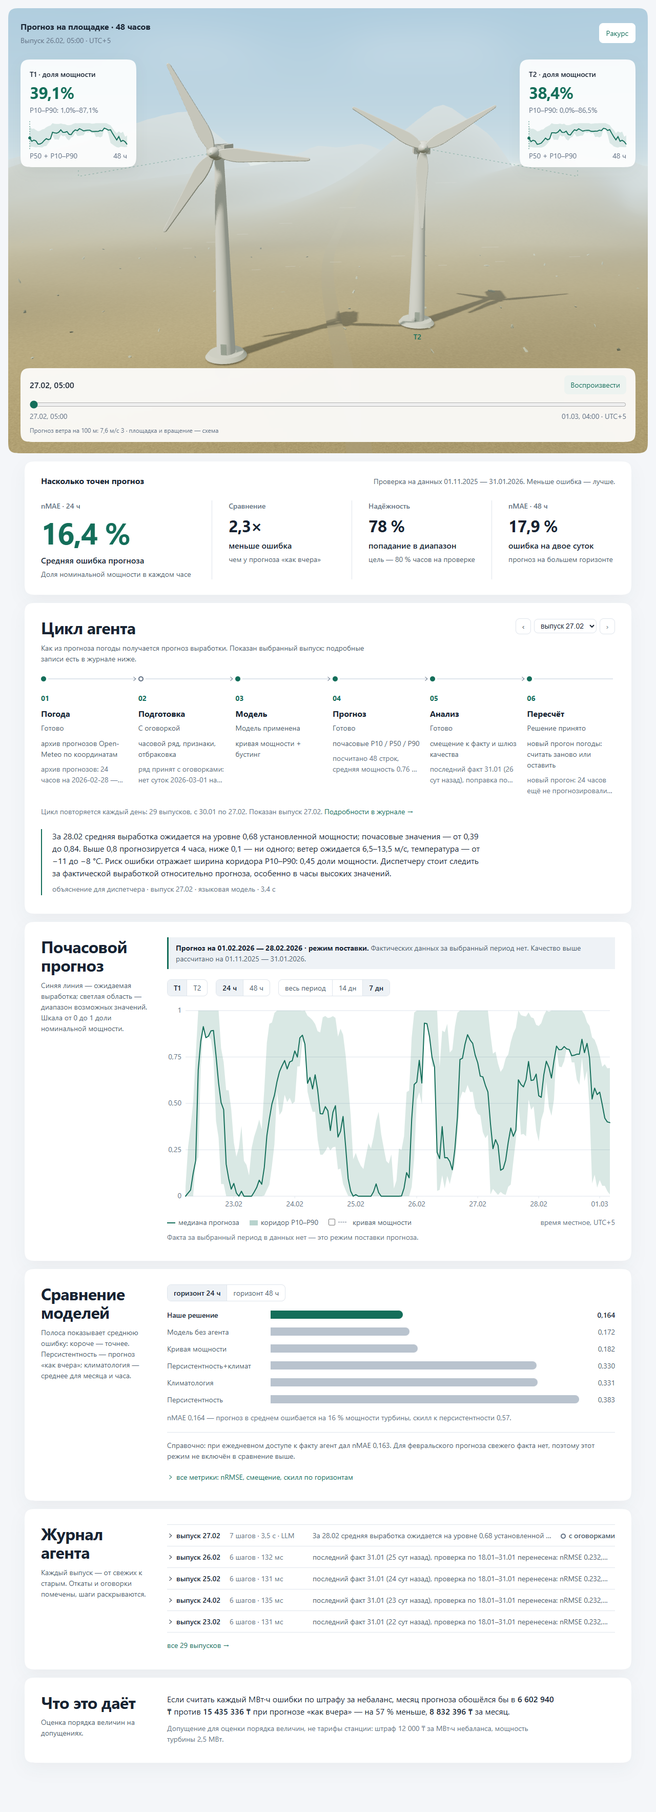
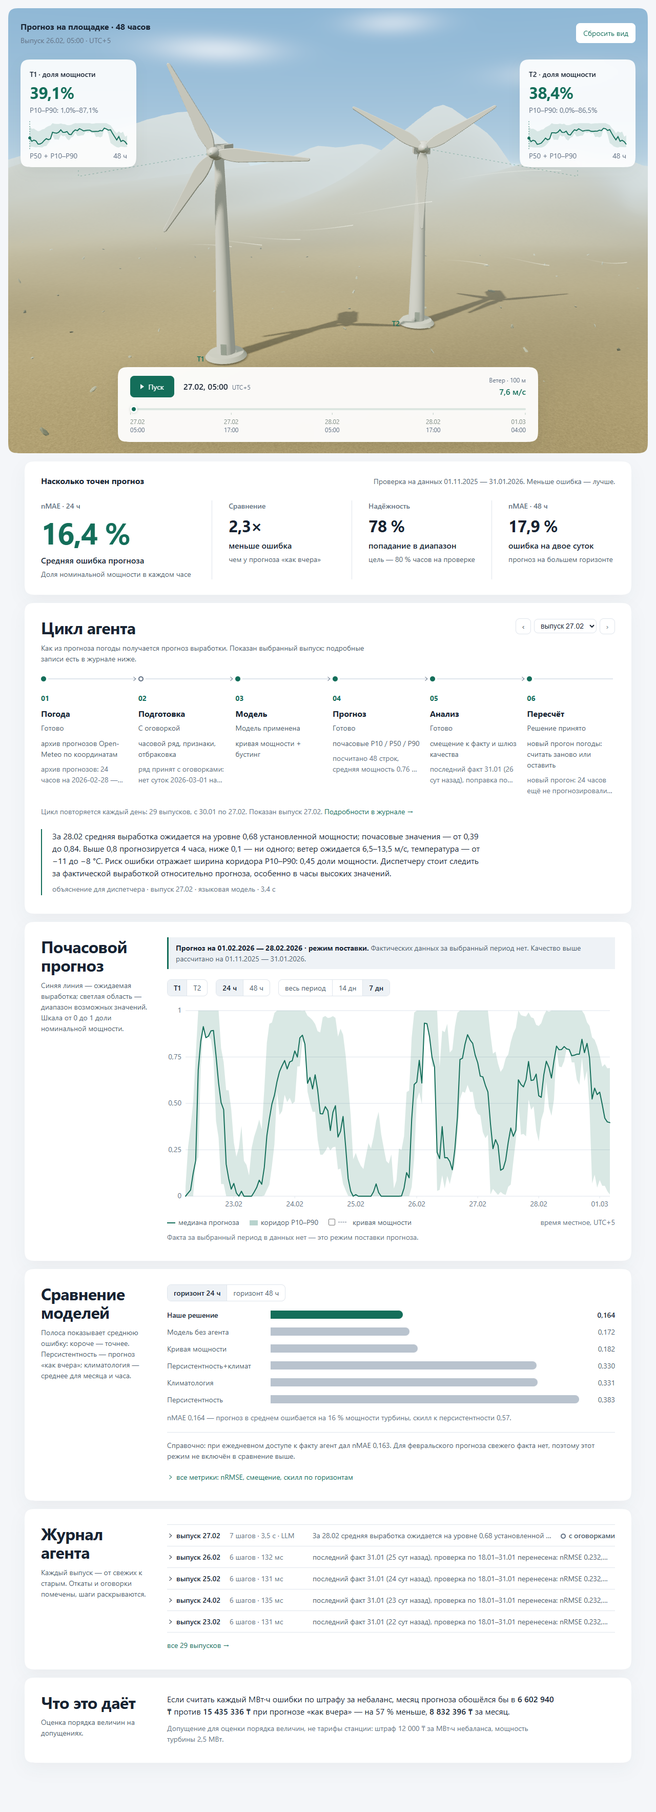
Упростить управление сценой и сделать потоки ветра заметнее

diff --git a/web/forecast3d.js b/web/forecast3d.js
@@ -29,7 +29,7 @@
     const head=el('div','forecast3d-head',undefined,stage),heading=el('div','',undefined,head);
     el('h3','','Прогноз на площадке · '+times.length+' часов',heading);
     el('p','forecast3d-meta','Выпуск '+local(utc(selected[0]))+' · UTC+5',heading);
-    const reset=el('button','','Ракурс',head);reset.type='button';reset.setAttribute('aria-label','Вернуть исходный ракурс');
+    const reset=el('button','','Сбросить вид',head);reset.type='button';reset.title='Перетаскивайте сцену, чтобы повернуть камеру. Эта кнопка возвращает исходный вид.';
     canvas.setAttribute('role','img');canvas.setAttribute('aria-label','Условная сцена Шелекского коридора: две ветротурбины. Прогноз мощности, диапазон P10–P90 и график каждой турбины показаны на панелях.');
     const svgEl=(tag,attrs,parent)=>{const node=document.createElementNS('http://www.w3.org/2000/svg',tag);for(const [key,value] of Object.entries(attrs))node.setAttribute(key,value);parent.append(node);return node;};
     const panels=series.map(({turbine,rows})=>{
@@ -48,43 +48,47 @@
       const caption=el('div','forecast3d-spark-caption',undefined,panel);el('span','','P50 + P10–P90',caption);el('span','',times.length+' ч',caption);
       return {panel,median,band,marker,dot};
     });
-    const timeline=el('div','forecast3d-timeline',undefined,stage),timeHead=el('div','forecast3d-time-head',undefined,timeline),hour=el('span','forecast3d-time','',timeHead);
-    const play=el('button','','Воспроизвести',timeHead);play.type='button';play.setAttribute('aria-pressed','false');
+    const timeline=el('div','forecast3d-timeline',undefined,stage),timeHead=el('div','forecast3d-time-head',undefined,timeline);
+    const play=el('button','forecast3d-play','Пуск',timeHead);play.type='button';play.setAttribute('aria-pressed','false');play.setAttribute('aria-label','Воспроизвести прогноз по часам');
+    const current=el('div','forecast3d-current',undefined,timeHead),hour=el('span','forecast3d-time','',current);el('span','forecast3d-time-zone','UTC+5',current);
+    const windReadout=el('div','forecast3d-wind',undefined,timeHead);el('span','forecast3d-wind-label','Ветер · 100 м',windReadout);const windValue=el('strong','forecast3d-wind-value','—',windReadout);
     const slider=el('input','forecast3d-range',undefined,timeline);slider.type='range';slider.min=0;slider.max=times.length-1;slider.value=0;slider.setAttribute('aria-label','Час прогноза');
-    const limits=el('div','forecast3d-limits',undefined,timeline);el('span','',local(utc(times[0])),limits);el('span','',local(utc(times.at(-1)))+' · UTC+5',limits);
-    const note=el('p','forecast3d-note','Условная сцена · поток и вращение — схема',timeline);
+    const limits=el('div','forecast3d-limits',undefined,timeline);
+    for(const index of [...new Set([0,12,24,36,times.length-1].filter(index=>index<times.length))]){const tick=el('span','forecast3d-tick','',limits);tick.style.left=(index/Math.max(1,times.length-1)*100)+'%';el('span','',local(utc(times[index]),false),tick);el('span','',local(utc(times[index])).slice(-5),tick);}
+    timeline.title='Условная площадка. Вращение лопастей иллюстрирует прогноз ветра, а не реальные обороты турбин. Направление ветра указано по правилу «откуда дует».';
     const ctx=canvas.getContext('2d');
-    let width=0,height=0,active=0,yaw=0,elevation=0,drag=null,frame=0,playing=false,lastStep=0,visible=true,destroyed=false,scene3d=null,rotorPhase=0,lastRender=0;
+    let width=0,height=0,active=0,yaw=0,elevation=0,drag=null,frame=0,playing=false,lastStep=0,visible=true,destroyed=false,scene3d=null,rotorPhase=0,lastRender=0,rotorSpeed=.4;
     const reduced=window.matchMedia('(prefers-reduced-motion: reduce)');
     const windAt=index=>{const readings=series.map(({rows})=>rows[index]?.wind_speed_100m).filter(value=>Number.isFinite(value)&&value>=0);return readings.length?readings.reduce((sum,value)=>sum+value,0)/readings.length:null;};
     const directionAt=index=>{const bearings=series.map(({rows})=>rows[index]?.wind_direction_100m).filter(Number.isFinite);if(!bearings.length)return null;return Math.atan2(bearings.reduce((sum,angle)=>sum+Math.sin(angle*Math.PI/180),0),bearings.reduce((sum,angle)=>sum+Math.cos(angle*Math.PI/180),0));};
-    function update(){hour.textContent=local(utc(times[active]));slider.value=active;slider.setAttribute('aria-valuetext',hour.textContent);
+    function update(){hour.textContent=local(utc(times[active]));slider.value=active;slider.style.setProperty('--position',(active/Math.max(1,times.length-1)*100)+'%');slider.setAttribute('aria-valuetext',hour.textContent);
       series.forEach(({rows},i)=>{const row=rows[active],panel=panels[i],x=times.length>1?active/(times.length-1)*200:100;
         panel.median.textContent=row?percent(row.p50):'—';panel.band.textContent=row?'P10–P90: '+percent(row.p10)+'–'+percent(row.p90):'Нет прогноза';
         panel.marker.setAttribute('x1',x);panel.marker.setAttribute('x2',x);panel.dot.setAttribute('cx',x);panel.dot.setAttribute('cy',row?54-row.p50*50:54);panel.dot.style.display=row?'':'none';});
       const wind=windAt(active),bearing=directionAt(active),compass=['С','СВ','В','ЮВ','Ю','ЮЗ','З','СЗ'];
       const direction=bearing===null?'':' '+compass[Math.round(((bearing*180/Math.PI+360)%360)/45)%8];
-      note.textContent=(wind===null?'Условная сцена · поток и вращение — схема':'Прогноз ветра на 100 м: '+wind.toFixed(1).replace('.',',')+' м/с'+direction+' · площадка и вращение — схема');}
+      windValue.textContent=wind===null?'Нет данных':wind.toFixed(1).replace('.',',')+' м/с';
+      windReadout.title=wind===null?'Прогноз ветра недоступен. Вращение и потоки условные.':'Прогноз ветра на 100 м: '+wind.toFixed(1).replace('.',',')+' м/с'+direction+'. Вращение и потоки показаны схематично.';
+      windReadout.setAttribute('aria-label',windReadout.title);}
     function render(stamp){frame=0;if(destroyed||!visible)return;
       const wind=windAt(active),elapsed=lastRender?Math.min((stamp-lastRender)/1000,.1):0;lastRender=stamp;
-      if(!reduced.matches)rotorPhase+=elapsed*(wind===null?.4:Math.min(wind*.055,1.4));
+      const targetSpeed=wind===null?.4:Math.min(wind*.055,1.4);rotorSpeed+=(targetSpeed-rotorSpeed)*(1-Math.exp(-elapsed*2.8));
+      if(!reduced.matches)rotorPhase+=elapsed*rotorSpeed;
       if(playing&&stamp-lastStep>800){active=(active+1)%times.length;lastStep=stamp;update();}
       if(scene3d){scene3d.render(stamp,yaw);}
       else if(ctx&&width){
         const mobile=width<600,horizon=height*(mobile?.43:.38),ground=height*(mobile?.77:.79);
-        const sky=ctx.createLinearGradient(0,0,0,height);sky.addColorStop(0,'#afc8d1');sky.addColorStop(.48,'#e8e6d8');sky.addColorStop(1,'#c4b38d');ctx.fillStyle=sky;ctx.fillRect(0,0,width,height);
+        const sky=ctx.createLinearGradient(0,0,0,height);sky.addColorStop(0,'#76aaca');sky.addColorStop(.48,'#dde5df');sky.addColorStop(1,'#c4b38d');ctx.fillStyle=sky;ctx.fillRect(0,0,width,height);
+        for(let cloud=0;cloud<5;cloud++){const x=width*(.12+cloud*.19),y=horizon*(.29+(cloud%2)*.28),radius=width*(.09+(cloud%3)*.025);ctx.save();ctx.translate(x,y);ctx.scale(1,.28);const haze=ctx.createRadialGradient(0,0,0,0,0,radius);haze.addColorStop(0,'rgba(255,255,251,.25)');haze.addColorStop(.5,'rgba(255,255,251,.12)');haze.addColorStop(1,'rgba(255,255,251,0)');ctx.fillStyle=haze;ctx.fillRect(-radius,-radius,radius*2,radius*2);ctx.restore();}
         const mountain=(baseline,amp,fill,phase)=>{const ridges=[];ctx.beginPath();ctx.moveTo(0,baseline);for(let x=0;x<=width+24;x+=24){const n=x/width,peak=Math.sin(n*12+phase)*.32+Math.sin(n*31+phase)*.15+Math.sin(n*5+phase)*.5+Math.sin(n*87+phase)*.07;const y=baseline-amp*(.55+peak);ctx.lineTo(x,y);ridges.push([x,y]);}ctx.lineTo(width,height);ctx.lineTo(0,height);ctx.closePath();ctx.fillStyle=fill;ctx.fill();ridges.forEach(([x,y],i)=>{if(i%3)return;ctx.beginPath();ctx.moveTo(x,y);ctx.lineTo(x+amp*.65,baseline+8);ctx.lineTo(x-amp*.45,baseline+8);ctx.closePath();ctx.fillStyle='rgba(242,245,235,.1)';ctx.fill();});};
         mountain(horizon+26,55,'#c9d4cf',.5+yaw*.3);mountain(horizon+48,34,'#b8c6bb',2+yaw*.2);
         const soil=ctx.createLinearGradient(0,horizon+35,0,height);soil.addColorStop(0,'#cfc4a7');soil.addColorStop(1,'#b5a075');ctx.fillStyle=soil;ctx.beginPath();ctx.moveTo(0,horizon+44);ctx.quadraticCurveTo(width*.5,horizon+24,width,horizon+48);ctx.lineTo(width,height);ctx.lineTo(0,height);ctx.fill();
         const project=([x,y,z])=>{const rx=x*Math.cos(yaw)+z*Math.sin(yaw),rz=-x*Math.sin(yaw)+z*Math.cos(yaw),scale=(mobile?width*.15:Math.min(width*.075,86))/(1+rz*.075);return[width*.5+rx*scale,ground-y*scale-rz*scale*.2,scale];};
         const polygon=(points,fill,stroke)=>{ctx.beginPath();points.forEach((point,i)=>{const p=project(point);if(i)ctx.lineTo(p[0],p[1]);else ctx.moveTo(p[0],p[1]);});ctx.closePath();if(fill){ctx.fillStyle=fill;ctx.fill();}if(stroke){ctx.strokeStyle=stroke;ctx.lineWidth=1;ctx.stroke();}};
-        polygon([[-.9,0,-9],[.1,0,-9],[.65,0,1],[2.4,0,12],[2.15,0,12],[.3,0,1]],'#e4e3d6');
-        polygon([[-.69,0,-9],[-.64,0,-9],[.4,0,1],[2.23,0,12],[2.21,0,12],[.37,0,1]],'rgba(104,109,91,.13)');
-        polygon([[-.12,0,-9],[-.07,0,-9],[.57,0,1],[2.35,0,12],[2.33,0,12],[.54,0,1]],'rgba(104,109,91,.1)');
         // Детерминированная фактура степи не мерцает между кадрами.
         for(let i=0;i<110;i++){const x=((i*73)%997)/997*width,depth=((i*47)%101)/101,y=horizon+52+depth*(height-horizon-52);ctx.strokeStyle=depth>.5?'rgba(91,107,81,.13)':'rgba(91,107,81,.07)';ctx.lineWidth=1;ctx.beginPath();ctx.moveTo(x,y);ctx.lineTo(x+2+depth*8,y-depth*2);ctx.stroke();}
         const bearing=directionAt(active),flowSign=bearing===null?1:-Math.sin(bearing),flowCount=wind===null?12:Math.min(24,Math.round(wind*2));
-        for(let i=0;i<flowCount;i++){const x=((i*79+rotorPhase*34*flowSign+width*100)%width),y=horizon+35+(i*41)%(Math.max(1,ground-horizon-50));ctx.beginPath();ctx.moveTo(x,y);ctx.lineTo(x+12,y-1);ctx.strokeStyle='rgba(255,251,232,.28)';ctx.lineWidth=1;ctx.stroke();}
+        for(let i=0;i<Math.min(flowCount,16);i++){const x=((i*79+rotorPhase*34*flowSign+width*100)%width),y=horizon+35+(i*41)%(Math.max(1,ground-horizon-50));for(let segment=0;segment<16;segment++){const t=segment/16,next=(segment+1)/16;ctx.beginPath();ctx.moveTo(x+t*58,y+Math.sin(t*3+i)*6);ctx.lineTo(x+next*58,y+Math.sin(next*3+i)*6);ctx.strokeStyle='rgba(255,253,239,'+(.5*next*next)+')';ctx.lineWidth=1.35;ctx.stroke();}}
         const turbines=[{x:mobile?-1.75:-2,z:1.6,index:0},{x:mobile?1.8:2,z:3.4,index:1}],hubs=[];
         [...turbines].sort((a,b)=>b.z-a.z).forEach(({x,z,index})=>{
           const tower=mobile?4.05:3.15,radius=mobile?1.21:1.04,base=project([x,0,z]);
@@ -113,7 +117,7 @@
     }
     function schedule(){if(!frame&&!destroyed&&visible)frame=requestAnimationFrame(render);}
     function resize(){const rect=canvas.getBoundingClientRect();width=rect.width;height=rect.height;const ratio=Math.min(window.devicePixelRatio||1,2);canvas.width=Math.round(width*ratio);canvas.height=Math.round(height*ratio);if(ctx)ctx.setTransform(ratio,0,0,ratio,0,0);if(scene3d)scene3d.resize();schedule();}
-    play.addEventListener('click',()=>{playing=!playing;play.textContent=playing?'Пауза':'Воспроизвести';play.setAttribute('aria-pressed',String(playing));lastStep=performance.now();schedule();});
+    play.addEventListener('click',()=>{playing=!playing;play.textContent=playing?'Пауза':'Пуск';play.setAttribute('aria-pressed',String(playing));play.setAttribute('aria-label',playing?'Приостановить прогноз':'Воспроизвести прогноз по часам');lastStep=performance.now();schedule();});
     slider.addEventListener('input',()=>{active=Number(slider.value);lastStep=performance.now();update();schedule();});
     reset.addEventListener('click',()=>{yaw=0;elevation=0;schedule();});
     canvas.addEventListener('pointerdown',event=>{if(event.button!==0)return;drag={x:event.clientX,y:event.clientY,yaw,elevation};canvas.setPointerCapture(event.pointerId);});
@@ -130,8 +134,11 @@
       renderer.shadowMap.enabled=true;renderer.shadowMap.type=THREE.PCFSoftShadowMap;
       renderer.toneMapping=THREE.ACESFilmicToneMapping;renderer.toneMappingExposure=1;
       const scene=new THREE.Scene();scene.background=new THREE.Color('#d8e2e4');scene.fog=new THREE.FogExp2('#d8e2e4',.0125);
-      const skyMaterial=new THREE.ShaderMaterial({side:THREE.BackSide,depthWrite:false,toneMapped:false,precision:'highp',uniforms:{zenith:{value:new THREE.Color('#8bbbd8')},horizon:{value:new THREE.Color('#e4ecea')}},vertexShader:`varying vec3 skyDirection;void main(){skyDirection=position;gl_Position=projectionMatrix*modelViewMatrix*vec4(position,1.0);}`,fragmentShader:`uniform vec3 zenith;uniform vec3 horizon;varying vec3 skyDirection;
-        void main(){vec3 d=normalize(skyDirection);float h=max(d.y,0.0);vec3 color=mix(horizon,zenith,pow(h,.32));float ribbon=exp(-pow((h-.22)*19.,2.));float patches=smoothstep(.18,.88,.5+.28*sin(d.x*13.)+.22*sin(d.z*17.));float cloud=ribbon*patches*.12;color=mix(color,vec3(.95,.97,.98),cloud);float glow=pow(max(dot(d,normalize(vec3(-.5,.7,.4))),0.),32.);color+=vec3(.055,.047,.03)*glow;gl_FragColor=vec4(color,1.);
+      const skyMaterial=new THREE.ShaderMaterial({side:THREE.BackSide,depthWrite:false,toneMapped:false,precision:'highp',uniforms:{zenith:{value:new THREE.Color('#5c9ecb')},horizon:{value:new THREE.Color('#d5e6ec')}},vertexShader:`varying vec3 skyDirection;void main(){skyDirection=position;gl_Position=projectionMatrix*modelViewMatrix*vec4(position,1.0);}`,fragmentShader:`uniform vec3 zenith;uniform vec3 horizon;varying vec3 skyDirection;
+        float cloudPatch(vec2 uv,vec2 center,vec2 stretch){vec2 p=(uv-center)*stretch;return exp(-dot(p,p));}
+        void main(){vec3 d=normalize(skyDirection);float h=max(d.y,0.0);vec3 color=mix(horizon,zenith,pow(h,.28));vec2 uv=vec2(d.x,h);
+          float cloud=.58*cloudPatch(uv,vec2(-.29,.22),vec2(9.,42.))+.44*cloudPatch(uv,vec2(.05,.27),vec2(12.,48.))+.32*cloudPatch(uv,vec2(.35,.17),vec2(10.,45.));
+          cloud*=smoothstep(.1,.8,-d.z);color=mix(color,vec3(.95,.97,.98),min(cloud,.68));float glow=pow(max(dot(d,normalize(vec3(-.5,.7,.4))),0.),32.);color+=vec3(.055,.047,.03)*glow;gl_FragColor=vec4(color,1.);
         #include <colorspace_fragment>
         }`});
       scene.add(new THREE.Mesh(new THREE.SphereGeometry(180,96,64),skyMaterial));
@@ -156,17 +163,17 @@
       for(let i=0;i<vertices.count;i++){const x=vertices.getX(i),z=vertices.getZ(i),patch=(Math.sin(x*.13+Math.sin(z*.21))*Math.cos(z*.095)+1)*.5;tint.copy(dry).lerp(dust,patch*.65);if(z<-25)tint.lerp(rock,Math.min((-z-25)/70,.85));terrainColors.push(tint.r,tint.g,tint.b);}
       ground.setAttribute('color',new THREE.Float32BufferAttribute(terrainColors,3));
       const groundMat=new THREE.MeshStandardMaterial({vertexColors:true,map:terrainTexture,roughness:1,metalness:0});mesh(ground,groundMat).castShadow=false;
-      const roadMat=new THREE.MeshStandardMaterial({color:'#b7a780',map:terrainTexture,roughness:1,transparent:true,opacity:.72,depthWrite:false});
-      const roadVertices=[],roadIndices=[];
-      for(let i=0;i<=100;i++){const z=-65+i*1.2,center=Math.sin(z*.055)*2.6+.8;for(const edge of [-.58,.58]){const x=center+edge;roadVertices.push(x,terrainHeight(x,z)+.18,z);}if(i<100){const a=i*2;roadIndices.push(a,a+2,a+1,a+1,a+2,a+3);}}
-      const roadGeometry=new THREE.BufferGeometry();roadGeometry.setAttribute('position',new THREE.Float32BufferAttribute(roadVertices,3));roadGeometry.setIndex(roadIndices);roadGeometry.computeVertexNormals();mesh(roadGeometry,roadMat).castShadow=false;
       const gravelMat=new THREE.MeshStandardMaterial({color:'#a4a78f',roughness:1});
       const pebbleGeometry=new THREE.IcosahedronGeometry(.12,0);
       const pebbles=new THREE.InstancedMesh(pebbleGeometry,gravelMat,190);
       const transform=new THREE.Object3D();
       for(let i=0;i<190;i++){const x=((i*73)%997)/997*80-40,z=((i*47)%991)/991*80-30;transform.position.set(x,.02,z);transform.rotation.set(i*.7,i*.4,i*.13);transform.scale.set(1+(i%3),.4,1);transform.updateMatrix();pebbles.setMatrixAt(i,transform.matrix);}pebbles.receiveShadow=true;scene.add(pebbles);
-      const windGeometry=new THREE.BufferGeometry(),windPositions=new Float32Array(36*6);windGeometry.setAttribute('position',new THREE.BufferAttribute(windPositions,3));
-      const windMaterial=new THREE.LineBasicMaterial({color:'#f9f6e9',transparent:true,opacity:.24,depthWrite:false});
+      const streamCount=22,streamSegments=18;
+      const windGeometry=new THREE.BufferGeometry(),windPositions=new Float32Array(streamCount*streamSegments*6),windFades=new Float32Array(streamCount*streamSegments*2);
+      windGeometry.setAttribute('position',new THREE.BufferAttribute(windPositions,3));
+      for(let stream=0;stream<streamCount;stream++)for(let segment=0;segment<streamSegments;segment++){const offset=(stream*streamSegments+segment)*2;windFades[offset]=Math.pow(segment/streamSegments,1.6);windFades[offset+1]=Math.pow((segment+1)/streamSegments,1.6);}
+      windGeometry.setAttribute('fade',new THREE.BufferAttribute(windFades,1));
+      const windMaterial=new THREE.ShaderMaterial({transparent:true,depthWrite:false,toneMapped:false,vertexShader:`attribute float fade;varying float trailFade;void main(){trailFade=fade;gl_Position=projectionMatrix*modelViewMatrix*vec4(position,1.0);}`,fragmentShader:`varying float trailFade;void main(){gl_FragColor=vec4(.98,.99,.96,trailFade*.62);}`});
       const windLines=new THREE.LineSegments(windGeometry,windMaterial);windLines.frustumCulled=false;scene.add(windLines);
       const towerMat=new THREE.MeshStandardMaterial({color:'#f0f2e9',roughness:.36,metalness:.17});
       const edgeMat=new THREE.MeshStandardMaterial({color:'#aebbb2',roughness:.55,metalness:.25});
@@ -196,8 +203,10 @@
         // Север сцены — минус Z; метеорологический угол задаёт, откуда дует ветер.
         const dx=bearing===null?1:-Math.sin(bearing),dz=bearing===null?.2:Math.cos(bearing);
         turbines.forEach(({group,rotor},index)=>{group.position.x=(index?1:-1)*(mobile?4:6.2);rotor.rotation.z=rotorPhase+index*.6;});
-        const flow=rotorPhase*8;for(let i=0;i<36;i++){const x=((i*3.713+flow*dx+42000)%42)-21,y=2+((i*1.731)%12),z=((i*5.319+flow*dz+34000)%34)-17,offset=i*6;windPositions[offset]=x;windPositions[offset+1]=y;windPositions[offset+2]=z;windPositions[offset+3]=x+.75*dx;windPositions[offset+4]=y+.015;windPositions[offset+5]=z+.75*dz;}
-        windGeometry.setDrawRange(0,(speed===null?16:Math.min(36,Math.round(speed*2.5)))*2);
+        const flow=rotorPhase*8;
+        for(let i=0;i<streamCount;i++){const x=((i*3.713+flow*dx+42000)%42)-21,y=2+((i*1.731)%12),z=((i*5.319+flow*dz+34000)%34)-17;
+          for(let segment=0;segment<streamSegments;segment++)for(let endpoint=0;endpoint<2;endpoint++){const t=(segment+endpoint)/streamSegments,along=t*4.2,bend=Math.sin(t*2.8+i*.8)*.7,offset=(i*streamSegments+segment)*6+endpoint*3;windPositions[offset]=x+along*dx-bend*dz;windPositions[offset+1]=y+Math.sin(t*2+i)*.5;windPositions[offset+2]=z+along*dz+bend*dx;}}
+        windGeometry.setDrawRange(0,(speed===null?12:Math.min(streamCount,Math.round(speed*1.5)))*streamSegments*2);
         windGeometry.attributes.position.needsUpdate=true;
         renderer.render(scene,camera);
         if(ctx){ctx.clearRect(0,0,width,height);panels.forEach(({panel},index)=>{
@@ -205,7 +214,7 @@
           const hx=(hub.x*.5+.5)*width,hy=(-hub.y*.5+.5)*height,panelRect=panel.getBoundingClientRect(),stageRect=stage.getBoundingClientRect(),sx=panelRect.left-stageRect.left+panelRect.width*.5,sy=panelRect.bottom-stageRect.top+6;
           ctx.beginPath();ctx.moveTo(sx,sy);ctx.lineTo(sx,sy+12);ctx.lineTo(hx,hy);ctx.setLineDash([3,5]);ctx.strokeStyle='rgba(20,110,90,.38)';ctx.lineWidth=1;ctx.stroke();ctx.setLineDash([]);
           ctx.font='600 14px -apple-system, Segoe UI, sans-serif';ctx.fillStyle=accent;ctx.textAlign='center';
-          turbines[index].group.localToWorld(hub.set(0,0,1.05));hub.project(camera);ctx.fillText('T'+(index+1),(hub.x*.5+.5)*width,(-hub.y*.5+.5)*height+22);
+          turbines[index].group.localToWorld(hub.set(0,0,1.05));hub.project(camera);ctx.fillText('T'+(index+1),(hub.x*.5+.5)*width-(mobile?0:42),(-hub.y*.5+.5)*height+(mobile?22:-4));
         });}
       },destroy(){terrainTexture.dispose();scene.traverse(shape=>{if(shape.geometry)shape.geometry.dispose();if(shape.material){for(const material of Array.isArray(shape.material)?shape.material:[shape.material])material.dispose();}});renderer.dispose();renderer.domElement.remove();}};
       root.dataset.renderer='webgl';resizeGL();schedule();

diff --git a/web/forecast3d.css b/web/forecast3d.css
@@ -18,24 +18,44 @@
 .forecast3d-band-label { display:block; font-size:14px; color:#647386; }
 .forecast3d-spark { display:block; width:100%; height:58px; margin-top:10px; overflow:visible; }
 .forecast3d-spark-caption { display:flex; justify-content:space-between; font-size:14px; color:#647386; }
-.forecast3d-timeline { position:absolute; z-index:2; bottom:22px; left:24px; right:24px; padding:14px 18px; background:rgba(255,255,255,.91); border-radius:28px; corner-shape:squircle; backdrop-filter:blur(10px); }
-.forecast3d-time-head { display:flex; align-items:center; gap:12px; justify-content:space-between; }
+.forecast3d-timeline { position:absolute; z-index:2; bottom:22px; left:50%; width:calc(100% - 48px); max-width:820px; transform:translateX(-50%); padding:16px 24px 14px; background:rgba(255,255,255,.94); border-radius:28px; corner-shape:squircle; backdrop-filter:blur(14px); box-shadow:0 8px 32px rgba(34,49,37,.09); }
+.forecast3d-time-head { display:grid; grid-template-columns:auto 1fr auto; align-items:center; gap:18px; }
+.forecast3d-current { display:flex; align-items:baseline; gap:8px; }
 .forecast3d-time { font-size:16px; font-weight:600; }
-.forecast3d-timeline button { background:#edf3f0; padding:8px 12px; }
-.forecast3d-range { display:block; width:100%; margin:12px 0 4px; accent-color:#146e5a; cursor:pointer; }
-.forecast3d-limits { display:flex; justify-content:space-between; gap:8px; color:#647386; font-size:14px; }
+.forecast3d-time-zone,.forecast3d-wind-label { font-size:12px; color:#647386; }
+.forecast3d-wind { display:flex; flex-direction:column; align-items:flex-end; gap:2px; }
+.forecast3d-wind-value { font-size:16px; color:#146e5a; font-weight:600; font-variant-numeric:tabular-nums; white-space:nowrap; }
+.forecast3d-timeline .forecast3d-play { display:flex; align-items:center; justify-content:center; gap:8px; min-width:86px; min-height:42px; background:#146e5a; color:#fff; padding:10px 14px; }
+.forecast3d-play::before { content:''; width:0; height:0; border-block:5px solid transparent; border-left:7px solid currentColor; }
+.forecast3d-play[aria-pressed=true]::before { width:7px; height:10px; border-block:0; border-inline:2px solid currentColor; }
+.forecast3d-range { --position:0%; display:block; appearance:none; -webkit-appearance:none; width:100%; height:32px; margin:6px 0 0; border:0; border-radius:8px; background:transparent; cursor:pointer; }
+.forecast3d-range::-webkit-slider-runnable-track { height:4px; border-radius:8px; background:linear-gradient(to right,#146e5a var(--position),#dce6e1 var(--position)); }
+.forecast3d-range::-moz-range-track { height:4px; border-radius:8px; background:linear-gradient(to right,#146e5a var(--position),#dce6e1 var(--position)); }
+.forecast3d-range::-webkit-slider-thumb { appearance:none; -webkit-appearance:none; width:14px; height:14px; margin-top:-5px; border:3px solid white; border-radius:50%; background:#146e5a; box-shadow:0 1px 5px rgba(20,60,40,.22); }
+.forecast3d-range::-moz-range-thumb { width:9px; height:9px; border:3px solid white; border-radius:50%; background:#146e5a; box-shadow:0 1px 5px rgba(20,60,40,.22); }
+.forecast3d-limits { position:relative; height:34px; color:#647386; font-size:12px; }
+.forecast3d-tick { position:absolute; top:0; display:flex; flex-direction:column; align-items:center; transform:translateX(-50%); line-height:1.35; }
+.forecast3d-tick::before { content:''; width:1px; height:4px; background:#bccdc3; position:absolute; top:-9px; }
+.forecast3d-tick:first-child { transform:none; align-items:flex-start; }
+.forecast3d-tick:last-child { transform:translateX(-100%); align-items:flex-end; }
+.forecast3d-tick span:first-child { color:#89958d; }
 .forecast3d-note { margin:8px 0 0; font-size:12px; }
 @media(max-width:600px) {
  .forecast3d-stage { min-height:700px; }
  .forecast3d-head { top:14px; left:14px; right:14px; align-items:flex-start; }
  .forecast3d-head h3 { font-size:14px; max-width:220px; }
  .forecast3d-meta { font-size:12px; }
- .forecast3d-head button { padding:7px 9px; font-size:12px; }
+ .forecast3d-head button { padding:7px 9px; font-size:12px; white-space:nowrap; }
  .forecast3d-panel { top:88px; width:calc(50% - 21px); padding:10px; }
  .forecast3d-panel[data-turbine=T1] { left:14px; }
  .forecast3d-panel[data-turbine=T2] { right:14px; }
  .forecast3d-spark { height:44px; margin-top:6px; }
  .forecast3d-band-label,.forecast3d-spark-caption { font-size:12px; }
- .forecast3d-timeline { bottom:14px; left:14px; right:14px; padding:12px; }
- .forecast3d-limits { font-size:12px; }
+ .forecast3d-timeline { bottom:14px; width:calc(100% - 28px); padding:12px 16px; }
+ .forecast3d-time-head { gap:10px; }
+ .forecast3d-current { flex-direction:column; gap:1px; }
+ .forecast3d-time { font-size:14px; white-space:nowrap; }
+ .forecast3d-timeline .forecast3d-play { min-width:42px; width:42px; padding:0; font-size:0; gap:0; }
+ .forecast3d-wind-value { font-size:14px; }
+ .forecast3d-tick:nth-child(even) { display:none; }
 }

diff --git a/README.md b/README.md
@@ -48,11 +48,15 @@ python -m windagent.run --backtest
 
 ![Дашборд](docs/screenshots/dashboard-desktop.png)
 
-Первый экран — интерактивная 3D-сцена двух турбин. Ползунок показывает каждый час выбранного
-48-часового выпуска: P50, диапазон P10–P90, прогноз скорости и направления ветра на высоте 100 м.
-Скорость и направление взяты из архивного прогноза Open-Meteo Previous Runs API того же выпуска,
-что использован моделью. Линии потока и скорость вращения лопастей иллюстрируют этот прогноз;
-фактические обороты и ориентация турбин в исходных данных не указаны. Сцена работает через локальный
+Первый экран — интерактивная 3D-сцена двух турбин. Компактная панель позволяет запускать и ставить
+на паузу просмотр, видеть выбранный час и отдельно скорость ветра; шкала времени выбирает час в
+48-часовом выпуске. Перетаскивайте сцену, чтобы менять положение камеры, а кнопкой «Сбросить вид»
+возвращайте исходный ракурс. Для выбранного часа показаны P50, диапазон P10–P90 и прогноз ветра на
+высоте 100 м из того же выпуска Open-Meteo Previous Runs API, что использован моделью. Направление
+ветра дано по метеорологическому правилу — откуда он дует; линии в сцене движутся по ветру,
+в противоположную сторону. Их выраженность и схематическая скорость вращения лопастей меняются вместе с
+прогнозным `wind_speed_100m`; это визуализация прогноза, а не физическая симуляция. Фактические обороты и
+ориентация турбин в исходных данных не указаны. Сцена работает через локальный
 Three.js/WebGL, а при недоступном WebGL переключается на Canvas. Под ней остаётся подробный отчёт.
 
 Ещё два режима:
